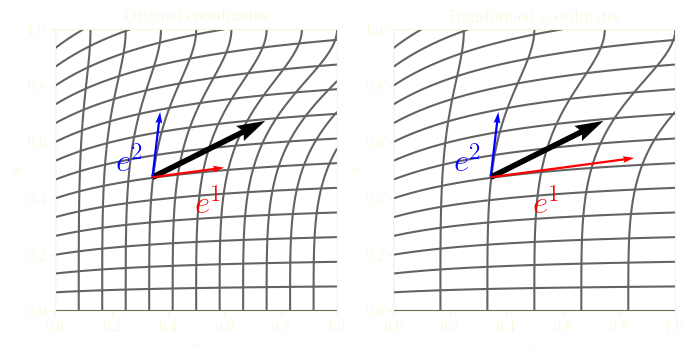
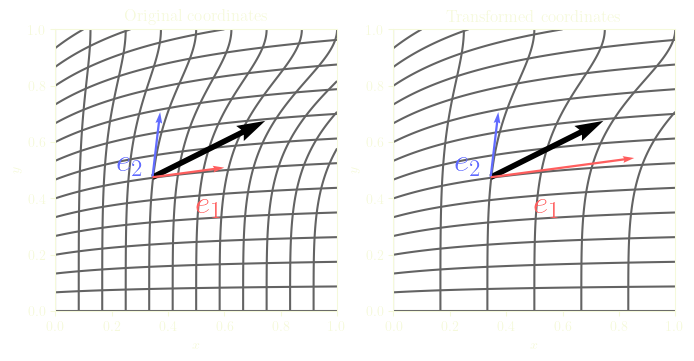
notation error

diff --git a/notes/vectorbasis.py b/notes/vectorbasis.py
@@ -87,7 +87,7 @@ ax[0].quiver(
     T_q1[0],
     T_q1[1],
     angles="xy",
-    color="b",
+    color="#616bff",
     scale=5,
     zorder=10,
     width=0.008,
@@ -99,7 +99,7 @@ ax[0].quiver(
     T_q2[0],
     T_q2[1],
     angles="xy",
-    color="r",
+    color="#ff5e5e",
     scale=5,
     zorder=10,
     width=0.008,
@@ -111,7 +111,7 @@ ax[1].quiver(
     T_q1[0],
     T_q1[1],
     angles="xy",
-    color="b",
+    color="#616bff",
     scale=5,
     zorder=10,
     width=0.008,
@@ -123,15 +123,15 @@ ax[1].quiver(
     2 * T_q2[0],
     2 * T_q2[1],
     angles="xy",
-    color="r",
+    color="#ff5e5e",
     scale=5,
     zorder=10,
     width=0.008,
 )
-ax[0].text(0.5, 0.35, "$e^1$", size=24, color="r")
-ax[0].text(0.22, 0.5, "$e^2$", size=24, color="b")
-ax[1].text(0.5, 0.35, "$e^1$", size=24, color="r")
-ax[1].text(0.22, 0.5, "$e^2$", size=24, color="b")
+ax[0].text(0.5, 0.35, "$e_1$", size=24, color="#ff5e5e")
+ax[0].text(0.22, 0.5, "$e_2$", size=24, color="#616bff")
+ax[1].text(0.5, 0.35, "$e_1$", size=24, color="#ff5e5e")
+ax[1].text(0.22, 0.5, "$e_2$", size=24, color="#616bff")
 
 
 ax[0].set_title(r"Original coordinates")
@@ -143,7 +143,8 @@ ax[1].set_ylabel("$y$")
 
 ax[0].set_aspect("equal")
 ax[1].set_aspect("equal")
-fig.savefig("q1q2transformedcontra.png", bbox_inches="tight", transparent=True)
+# fig.savefig("q1q2transformedcontra.png", bbox_inches="tight", transparent=True)
+plt.show()
 plt.close()
 
 fig, ax = plt.subplots(1, 2, figsize=(8, 16))
@@ -164,7 +165,7 @@ ax[0].quiver(
     g_q1[0],
     g_q1[1],
     angles="xy",
-    color="r",
+    color="#ff5e5e",
     scale=5,
     zorder=10,
     width=0.008,
@@ -176,7 +177,7 @@ ax[0].quiver(
     g_q2[0],
     g_q2[1],
     angles="xy",
-    color="b",
+    color="#616bff",
     scale=5,
     zorder=10,
     width=0.008,
@@ -188,7 +189,7 @@ ax[1].quiver(
     0.5 * g_q1[0],
     0.5 * g_q1[1],
     angles="xy",
-    color="r",
+    color="#ff5e5e",
     scale=5,
     zorder=10,
     width=0.008,
@@ -200,15 +201,15 @@ ax[1].quiver(
     g_q2[0],
     g_q2[1],
     angles="xy",
-    color="b",
+    color="#616bff",
     scale=5,
     zorder=10,
     width=0.008,
 )
-ax[0].text(0.5, 0.33, "$e^1$", size=24, color="r")
-ax[0].text(0.22, 0.5, "$e^2$", size=24, color="b")
-ax[1].text(0.5, 0.33, "$e^1$", size=24, color="r")
-ax[1].text(0.22, 0.5, "$e^2$", size=24, color="b")
+ax[0].text(0.5, 0.33, "$e^1$", size=24, color="#ff5e5e")
+ax[0].text(0.22, 0.5, "$e^2$", size=24, color="#616bff")
+ax[1].text(0.5, 0.33, "$e^1$", size=24, color="#ff5e5e")
+ax[1].text(0.22, 0.5, "$e^2$", size=24, color="#616bff")
 
 
 ax[0].set_title(r"Original coordinates")
@@ -220,5 +221,6 @@ ax[1].set_ylabel("$y$")
 
 ax[0].set_aspect("equal")
 ax[1].set_aspect("equal")
-fig.savefig("q1q2transformedcova.png", bbox_inches="tight", transparent=True)
+# fig.savefig("q1q2transformedcova.png", bbox_inches="tight", transparent=True)
+plt.show()
 plt.close()
